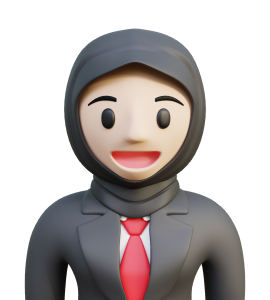
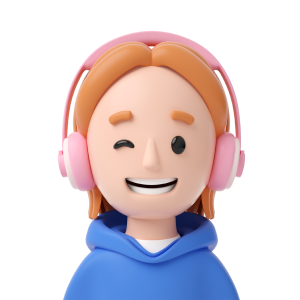
signup update

diff --git a/components/SelectAvatorModal.tsx b/components/SelectAvatorModal.tsx
@@ -2,6 +2,7 @@
 import React from "react";
 import { Modal, ModalContent, ModalBody } from "@nextui-org/react";
 import Image from "next/image";
+import { MdFileUpload } from "react-icons/md";
 
 export default function SelectAvatorModal({
   isOpen,
@@ -15,46 +16,59 @@ export default function SelectAvatorModal({
     onSelectImage(image);
     setIsModalOpen(false);
   };
-  console.log(isOpen, onOpenChange);
+  // console.log(isOpen, onOpenChange);
 
   return (
     <>
       {isOpen && (
-        <Modal
-          size="2xl"
-          isOpen={isOpen}
-          onOpenChange={onOpenChange}
-          backdrop={"blur"}
-        >
-          <ModalContent>
-            <div className="w-[91%] mx-auto py-6">
-              <ModalBody className="text-center">
-                <div>
-                  <h2 className="text-xl font-bold text-gray-700">
-                    Select Your Avator
-                  </h2>
-                  <p className="text-sm text-gray-600 my-3">
-                    Select from our wide variety of links and contact info
-                    below.
-                  </p>
-                </div>
-                <div className="grid grid-cols-6 gap-4">
-                  {images.map((image: string) => (
-                    <Image
-                      key={image}
-                      src={`/images/avator/${image}`}
-                      alt="avator"
-                      width={120}
-                      height={120}
-                      className="cursor-pointer"
-                      onClick={() => selectAvator(image)}
-                    />
-                  ))}
-                </div>
-              </ModalBody>
-            </div>
-          </ModalContent>
-        </Modal>
+        <>
+          <Modal
+            size="4xl"
+            isOpen={isOpen}
+            onOpenChange={onOpenChange}
+            backdrop={"blur"}
+          >
+            <ModalContent>
+              <div className="w-[91%] mx-auto py-6">
+                <ModalBody className="text-center">
+                  <div>
+                    <h2 className="text-xl font-bold text-gray-700">
+                      Select Your Avator
+                    </h2>
+                    <p className="text-sm text-gray-600 my-3">
+                      Select from our wide variety of links and contact info
+                      below.
+                    </p>
+                  </div>
+                  <div className="grid grid-cols-8 gap-3">
+                    {images.map((image: string) => (
+                      <div key={image}>
+                        <Image
+                          src={`/images/avator/${image}`}
+                          alt="avator"
+                          width={180}
+                          height={180}
+                          className="cursor-pointer"
+                          placeholder="blur"
+                          blurDataURL="/images/avator/placeholder.png"
+                          onClick={() => selectAvator(image)}
+                        />
+                      </div>
+                    ))}
+                  </div>
+                  <div className="flex items-center gap-4 my-2">
+                    <hr className="w-full h-[1.5px] bg-gray-300" />
+                    <p>OR</p>
+                    <hr className="w-full h-[1.5px] bg-gray-300" />
+                  </div>
+                  <button className="bg-black text-white w-max mx-auto py-2 rounded-xl flex items-center gap-2 justify-center px-4 text-sm">
+                    <MdFileUpload /> Choose From Gallery
+                  </button>
+                </ModalBody>
+              </div>
+            </ModalContent>
+          </Modal>
+        </>
       )}
     </>
   );

diff --git a/app/(withoutLayout)/signup/page.tsx b/app/(withoutLayout)/signup/page.tsx
@@ -26,6 +26,26 @@ const SignUpPage = () => {
     "06.png",
     "07.png",
     "08.png",
+    "09.png",
+    "10.png",
+    "11.png",
+    "12.png",
+    "13.png",
+    "14.png",
+    "15.png",
+    "16.png",
+    "17.png",
+    "18.png",
+    "19.png",
+    "20.png",
+    "21.png",
+    "22.png",
+    "23.png",
+    "24.png",
+    "25.png",
+    "26.png",
+    "27.png",
+    "28.png",
   ];
 
   const handleSubmit = (e: any) => {
@@ -37,7 +57,7 @@ const SignUpPage = () => {
     setSelectedImage(image);
   };
 
-  console.log("selectedImage", selectedImage);
+  // console.log("selectedImage", selectedImage);
 
   const handleModal = () => {
     onOpen();
@@ -68,6 +88,7 @@ const SignUpPage = () => {
                   width={260}
                   height={260}
                   alt="default avator"
+                  quality={100}
                   className="rounded-full w-full h-full"
                 />
               </div>
@@ -82,7 +103,7 @@ const SignUpPage = () => {
                 </button>
               </div>
             </div>
-            <UploadImageButton />
+            <UploadImageButton handleModal={handleModal} />
           </div>
           {/* <div className="border border-r border-black h-5/6 my-10"></div> */}
           <div className="flex-1 lg:flex-[1.5] xl:flex-[2]">
@@ -194,6 +215,8 @@ const SignUpPage = () => {
           Save
         </button>
       </form>
+
+      {/* modal here  */}
       {isModalOpen && (
         <SelectAvatorModal
           isOpen={isOpen}

diff --git a/components/SignUp/UploadImageButton.tsx b/components/SignUp/UploadImageButton.tsx
@@ -2,16 +2,18 @@
 import React from "react";
 import PrimaryButton from "../PrimaryButton";
 import { ImCloudUpload } from "react-icons/im";
+import { MdFileUpload } from "react-icons/md";
 
-const UploadImageButton = () => {
+const UploadImageButton = ({ handleModal }: any) => {
   const handleClickOnUploadImage = () => {
     console.log("clicked");
+    handleModal();
   };
   return (
     <div className="w-full sm:w-max">
       <PrimaryButton
         handleOnClick={handleClickOnUploadImage}
-        preIcon={<ImCloudUpload />}
+        preIcon={<MdFileUpload size={18} />}
       >
         Upload Image
       </PrimaryButton>
